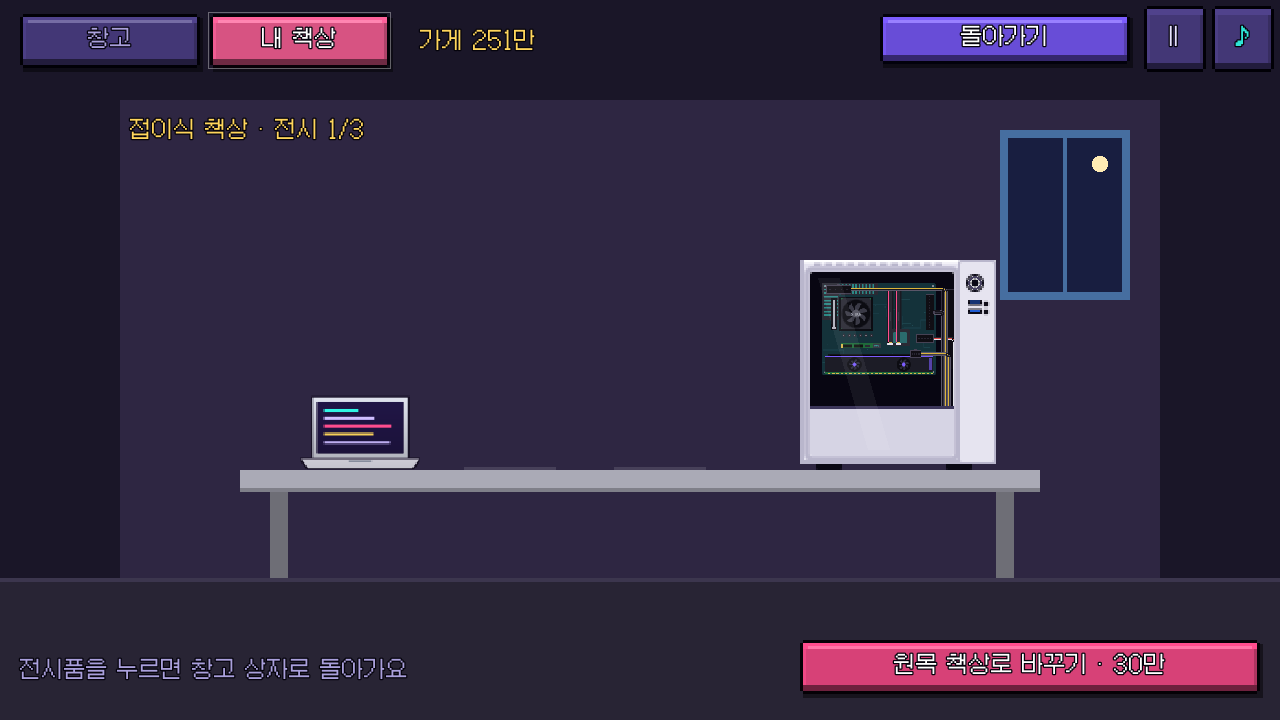
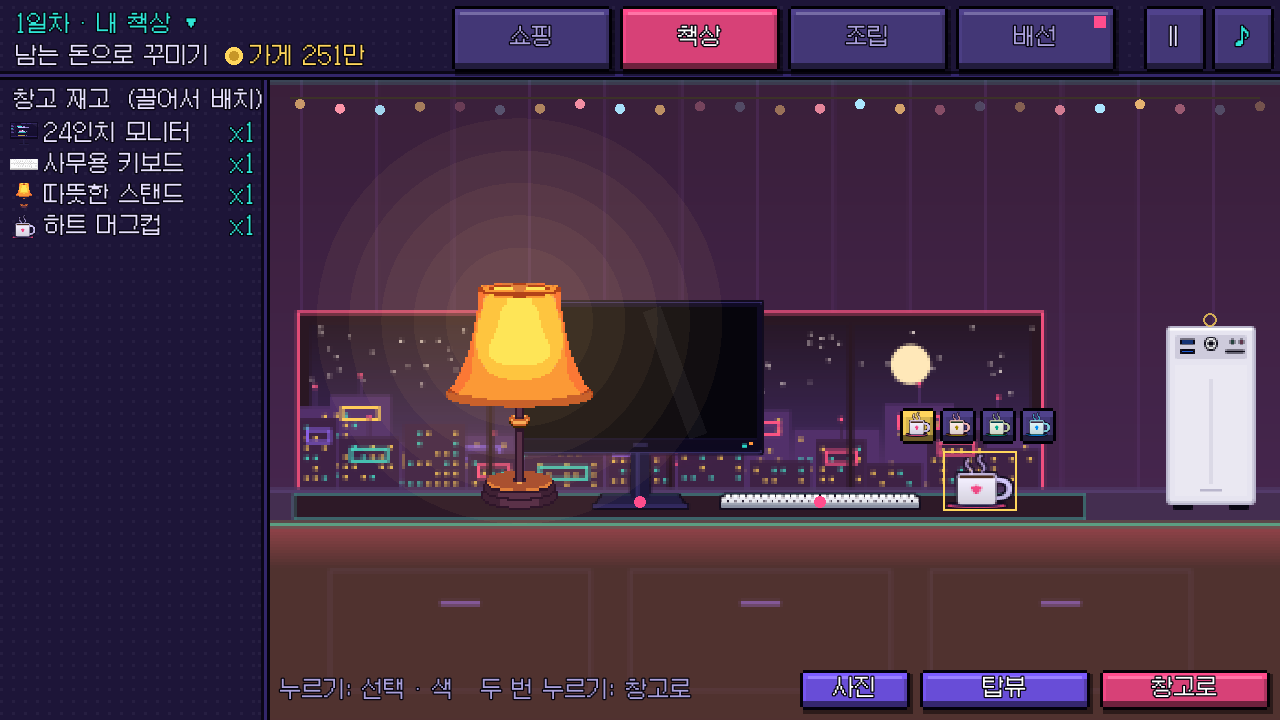
내 책상: 손님 의뢰와 똑같은 쇼핑 · 책상 · 조립 · 배선 화면으로 꾸미기 (예산 제한 없음 · 따뜻한 내 방 테마 · 진열대 PC를 내 PC로)

diff --git a/README.md b/README.md
@@ -21,7 +21,7 @@
 - **소리**: 직접 합성한 효과음 15종 + 배경음 1곡 (M = 음소거)
 - **쇼핑 (데스크몰)**: 소품 57종 · PC 부품 37종. 카테고리 → 상품 카드 → 상세 페이지(사양 · 설명 · 수량) → 장바구니 → 결제 → 영수증 → 창고로 배송. 남은 물건은 창고에 남아 다음 주문에 씀 (반품은 반값)
 - **마진**: 손님은 자기 예산을 그대로 내고(별 1개당 팁 추가, 별 0개면 0원), 물건 값은 가게가 냄. 예산은 조건을 맞추는 최저 구성의 1.3배 정도라 빠듯함 → 마진은 알뜰 구매 · 팁에서. 예산을 넘는 구성은 손님이 거절
-- **창고**: 영업 마감(또는 ll → 창고)에서 들어가는 철제 선반 창고. 남은 소품 상자를 눌러 **내 책상**(위쪽 탭으로 따로 보는 화면)에 전시하고, 남는 돈으로 책상을 바꿔 전시 칸을 늘림(3 → 5 → 7). 켜지는 PC는 **완성 PC 진열대**(2단 6대)에 미리 조립해 두었다가, 용도 · 새 제품 조건 · 예산이 맞는 손님에게만 바로 꺼내 씀 (하루 보관료 1만/대)
+- **창고**: 영업 마감(또는 ll → 창고)에서 들어가는 창고. 재고 상자 선반과 **완성 PC 진열대**(2단 6대): 켜지는 PC를 미리 조립해 두었다가, 용도 · 새 제품 조건 · 예산이 맞는 손님에게만 바로 꺼내 씀 (하루 보관료 1만/대). **내 책상** 탭은 손님 의뢰와 똑같은 쇼핑 · 책상 · 조립 · 배선 화면으로 남는 돈을 써서 내 방 책상을 꾸밈 (예산 제한 없음, 따뜻한 내 방 테마, 진열대 PC를 내 PC로)
 - **성장**: 받은 별이 쌓이면 가게 레벨업 → 팁 비율 상승 · 게이밍 라인(Lv2) · 하이엔드 부품(Lv3) 업그레이드 구매 가능
 - **PC 조립 (드래그 앤 드롭, 실제 순서)**: 케이스 → 메인보드 → 소켓 레버 열기 → CPU → 레버 닫기 → 서멀 구리스 → 쿨러 → RAM → M.2 SSD → 그래픽카드 → 파워 → 전원선(24핀 · CPU 8핀 · GPU 8핀) → 케이스 전원 버튼선. 소켓(AM/LGA) · 보드 크기 · 그래픽카드 길이 · 쿨러 높이가 안 맞으면 안 들어감. 전원 테스트는 디버그 LED(CPU → DRAM → VGA → BOOT)로 막힌 곳을 알려 줌
 - **배선**: 모니터는 DP(그래픽카드가 개수 결정), USB 기기는 USB(메인보드가 개수 결정), 스피커 · 헤드셋은 오디오. 무선 기기는 USB 동글을 꽂음(선 없음). 선이 꼬이면 감점
